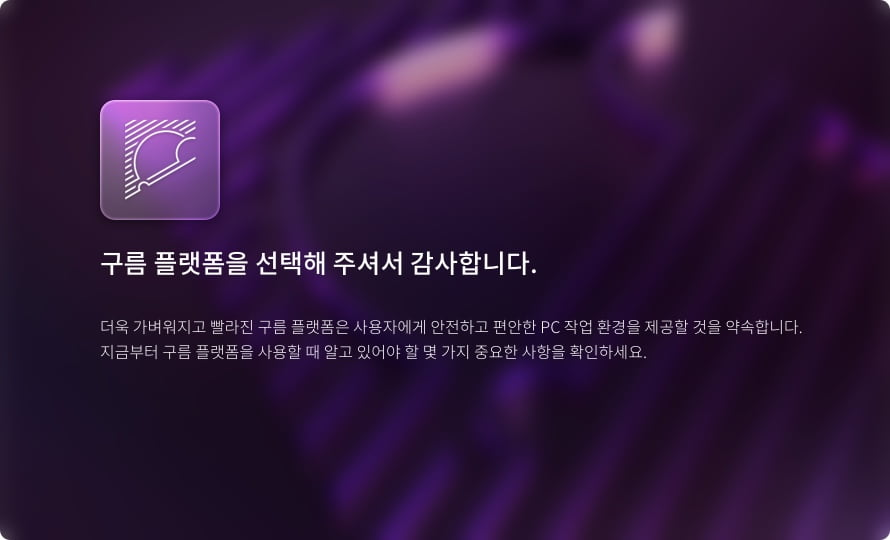
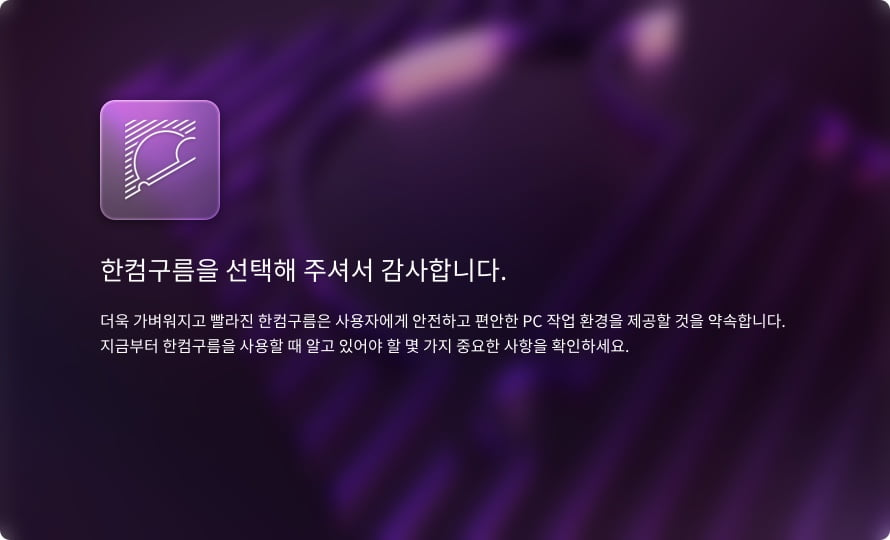
Hancom Gooroom 3.0 Initialization

Changed region(s): [[0.091, 0.563, 0.9101, 0.6815], [0.091, 0.4444, 0.6067, 0.5333]]

diff --git a/src/guide-window.c b/src/guide-window.c
@@ -120,6 +120,11 @@ load_image (int index, GuideWindow *self)
 
   pixbuf = gdk_pixbuf_new_from_file (uri,error);
 
+  if (index == 0)
+  {
+      gtk_stack_set_visible_child (GTK_STACK (self->bar_stack), self->start_bar);
+  }
+
   if (pixbuf == NULL) {
       g_print ("Error loading file: #%d %s\n", error->code, error->message);
       g_error_free (error);
@@ -127,7 +132,7 @@ load_image (int index, GuideWindow *self)
   }
 
   gtk_image_set_from_pixbuf (self->image_frame,
-							 gdk_pixbuf_scale_simple (pixbuf, 890, 540, GDK_INTERP_NEAREST));
+                     gdk_pixbuf_scale_simple (pixbuf, 890, 540, GDK_INTERP_NEAREST));
   set_page_label(self);
   guide_window_present(self);
 }
